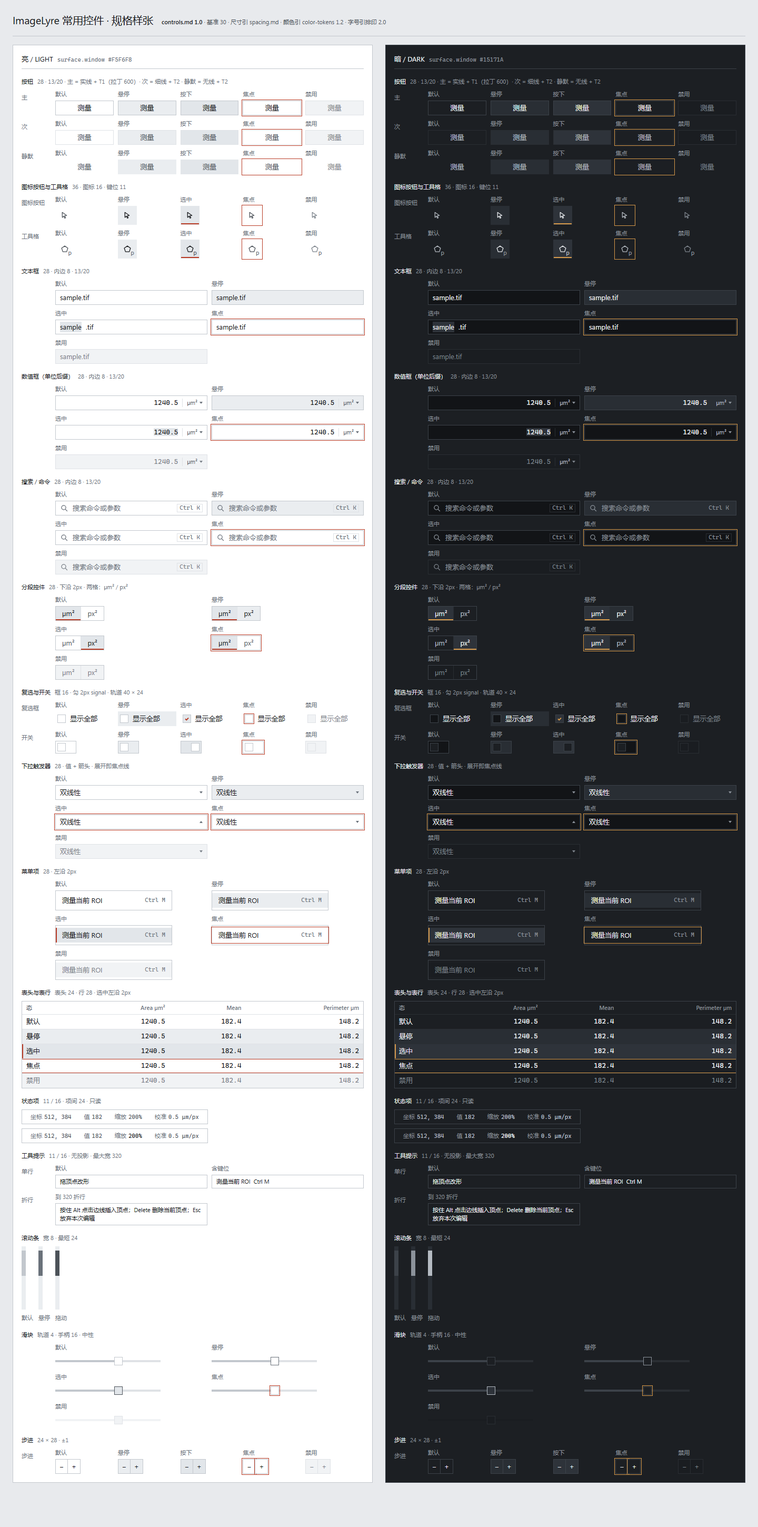
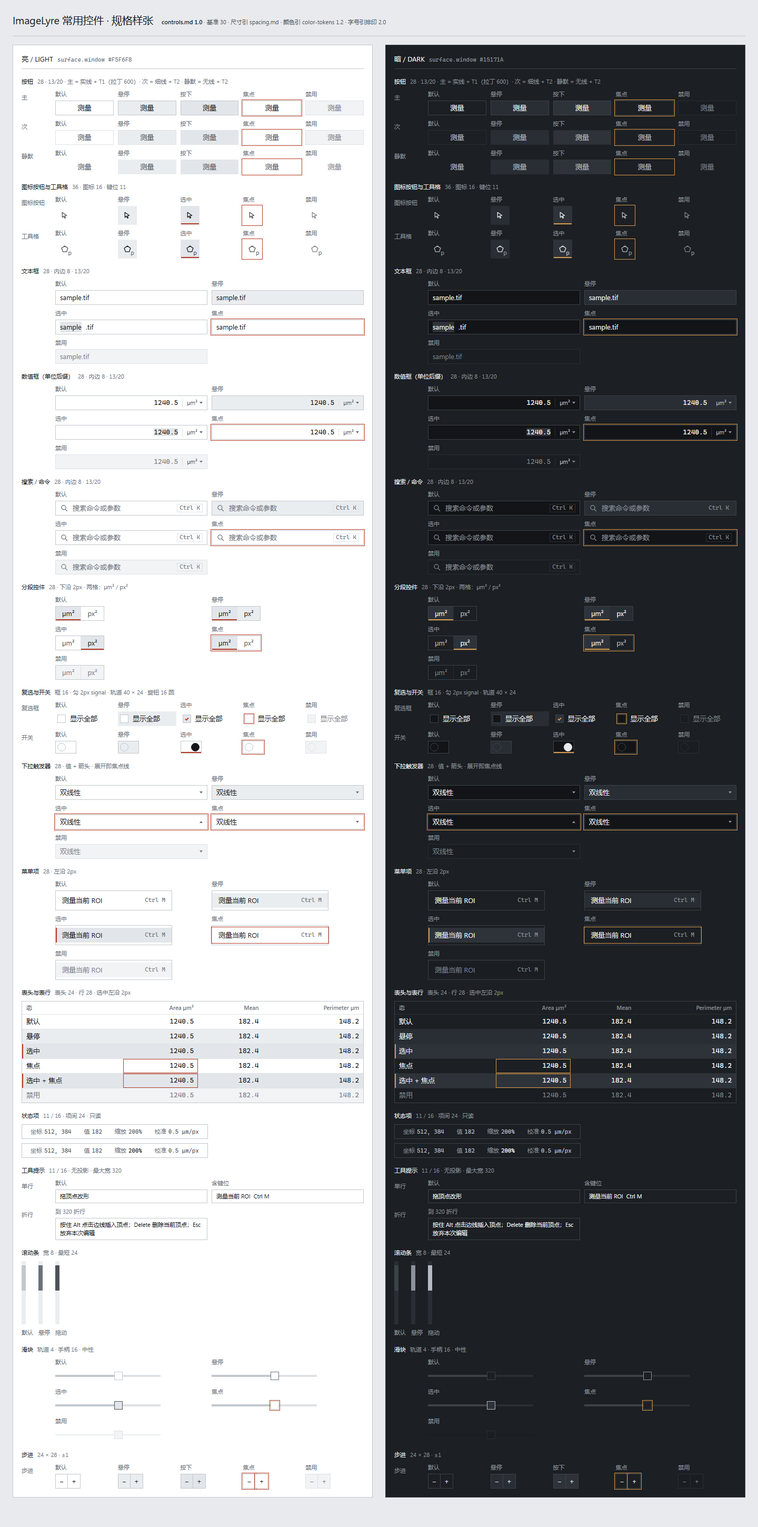
docs(design): 开关改圆钮，表格选中焦点收口

diff --git a/docs/design/lukan/bakeoff-2026-11-20/controls.html b/docs/design/lukan/bakeoff-2026-11-20/controls.html
@@ -100,13 +100,15 @@
   .chk.dis{color:var(--td)}
   .chk.dis .box{border-color:var(--div);background:var(--dis);color:var(--td)}
   .sw{position:relative;display:inline-block;width:40px;height:24px;background:var(--si);border:1px solid var(--bor)}
-  .sw .knob{position:absolute;top:3px;left:3px;width:16px;height:16px;background:var(--sp);border:1px solid var(--bor)}
-  .sw.sel{background:var(--sel)}
-  .sw.sel .knob{left:19px}
+  .sw .knob{position:absolute;top:3px;left:3px;width:16px;height:16px;border-radius:50%;background:transparent;border:1px solid var(--bor)}
+  .sw.sel .knob{left:19px;background:var(--t1);border-color:var(--t1)}
+  .sw.sel::after{content:"";position:absolute;left:0;right:0;bottom:0;height:2px;background:var(--sig)}
+  
   .sw.hov{background:var(--sh)}
   .sw.focus{outline:1px solid var(--foc);outline-offset:1px}
   .sw.dis{background:var(--dis);border-color:var(--div)}
-  .sw.dis .knob{border-color:var(--div);background:var(--dis)}
+  .sw.dis .knob{border-color:var(--div);background:transparent}
+  .sw.dis::after{display:none}
   .menu{border:1px solid var(--bor);background:var(--sp);padding:4px 0;width:max-content;min-width:220px}
   .mi{display:flex;align-items:center;gap:8px;height:28px;padding:0 12px;position:relative;
     background:transparent;font-size:13px;line-height:20px;color:var(--t1);min-width:220px}
@@ -128,7 +130,7 @@
   .tbl tr.hov td{background:var(--sh)}
   .tbl tr.sel td{background:var(--sel)}
   .tbl tr.sel td:first-child{box-shadow:inset 2px 0 0 var(--sig)}
-  .tbl tr.foc td{box-shadow:inset 0 1px 0 var(--foc),inset 0 -1px 0 var(--foc)}
+  .tbl td.fc{box-shadow:inset 0 0 0 1px var(--foc)}
   .tbl tr.dis td{background:var(--dis);color:var(--td)}
   .statuswrap{display:flex;flex-direction:column;gap:8px}
   .status{display:flex;align-items:center;gap:24px;height:28px;padding:0 16px;background:var(--sp);border:1px solid var(--bor);width:max-content}
@@ -175,14 +177,15 @@
   <div class="cols">
     <section class="col light">
       <div class="colhead"><b>亮 / LIGHT</b><span>surface.window #F5F6F8</span></div>
-      <section class="grp"><h2 class="gh">按钮<span>28 · 13/20 · 主 = 实线 + T1（拉丁 600）· 次 = 细线 + T2 · 静默 = 无线 + T2</span></h2><div class="grid g5"><div class="rl">主</div><div class="cell"><span class="cap">默认</span><button class="btn primary">测量</button></div><div class="cell"><span class="cap">悬停</span><button class="btn primary hov">测量</button></div><div class="cell"><span class="cap">按下</span><button class="btn primary press">测量</button></div><div class="cell"><span class="cap">焦点</span><button class="btn primary focus">测量</button></div><div class="cell"><span class="cap">禁用</span><button class="btn primary dis">测量</button></div><div class="rl">次</div><div class="cell"><span class="cap">默认</span><button class="btn secondary">测量</button></div><div class="cell"><span class="cap">悬停</span><button class="btn secondary hov">测量</button></div><div class="cell"><span class="cap">按下</span><button class="btn secondary press">测量</button></div><div class="cell"><span class="cap">焦点</span><button class="btn secondary focus">测量</button></div><div class="cell"><span class="cap">禁用</span><button class="btn secondary dis">测量</button></div><div class="rl">静默</div><div class="cell"><span class="cap">默认</span><button class="btn quiet">测量</button></div><div class="cell"><span class="cap">悬停</span><button class="btn quiet hov">测量</button></div><div class="cell"><span class="cap">按下</span><button class="btn quiet press">测量</button></div><div class="cell"><span class="cap">焦点</span><button class="btn quiet focus">测量</button></div><div class="cell"><span class="cap">禁用</span><button class="btn quiet dis">测量</button></div></div></section><section class="grp"><h2 class="gh">图标按钮与工具格<span>36 · 图标 16 · 键位 11</span></h2><div class="grid g5"><div class="rl">图标按钮</div><div class="cell"><span class="cap">默认</span><button class="ico"><svg viewBox="0 0 16 16" fill="none" stroke="currentColor" stroke-width="1.3" stroke-linejoin="round"><path d="M3.2 2.3l8.5 5.9-3.8.6 1.7 3.9-1.6.7-1.7-3.9-2.9 2.4z"/></svg></button></div><div class="cell"><span class="cap">悬停</span><button class="ico hov"><svg viewBox="0 0 16 16" fill="none" stroke="currentColor" stroke-width="1.3" stroke-linejoin="round"><path d="M3.2 2.3l8.5 5.9-3.8.6 1.7 3.9-1.6.7-1.7-3.9-2.9 2.4z"/></svg></button></div><div class="cell"><span class="cap">选中</span><button class="ico sel"><svg viewBox="0 0 16 16" fill="none" stroke="currentColor" stroke-width="1.3" stroke-linejoin="round"><path d="M3.2 2.3l8.5 5.9-3.8.6 1.7 3.9-1.6.7-1.7-3.9-2.9 2.4z"/></svg></button></div><div class="cell"><span class="cap">焦点</span><button class="ico focus"><svg viewBox="0 0 16 16" fill="none" stroke="currentColor" stroke-width="1.3" stroke-linejoin="round"><path d="M3.2 2.3l8.5 5.9-3.8.6 1.7 3.9-1.6.7-1.7-3.9-2.9 2.4z"/></svg></button></div><div class="cell"><span class="cap">禁用</span><button class="ico dis"><svg viewBox="0 0 16 16" fill="none" stroke="currentColor" stroke-width="1.3" stroke-linejoin="round"><path d="M3.2 2.3l8.5 5.9-3.8.6 1.7 3.9-1.6.7-1.7-3.9-2.9 2.4z"/></svg></button></div><div class="rl">工具格</div><div class="cell"><span class="cap">默认</span><button class="ico tool"><svg viewBox="0 0 16 16" fill="none" stroke="currentColor" stroke-width="1.3" stroke-linejoin="round"><path d="M8 2.1l5.9 4.1-2.3 6.9H4.4L2.1 6.2z"/></svg><span class="key">P</span></button></div><div class="cell"><span class="cap">悬停</span><button class="ico tool hov"><svg viewBox="0 0 16 16" fill="none" stroke="currentColor" stroke-width="1.3" stroke-linejoin="round"><path d="M8 2.1l5.9 4.1-2.3 6.9H4.4L2.1 6.2z"/></svg><span class="key">P</span></button></div><div class="cell"><span class="cap">选中</span><button class="ico tool sel"><svg viewBox="0 0 16 16" fill="none" stroke="currentColor" stroke-width="1.3" stroke-linejoin="round"><path d="M8 2.1l5.9 4.1-2.3 6.9H4.4L2.1 6.2z"/></svg><span class="key">P</span></button></div><div class="cell"><span class="cap">焦点</span><button class="ico tool focus"><svg viewBox="0 0 16 16" fill="none" stroke="currentColor" stroke-width="1.3" stroke-linejoin="round"><path d="M8 2.1l5.9 4.1-2.3 6.9H4.4L2.1 6.2z"/></svg><span class="key">P</span></button></div><div class="cell"><span class="cap">禁用</span><button class="ico tool dis"><svg viewBox="0 0 16 16" fill="none" stroke="currentColor" stroke-width="1.3" stroke-linejoin="round"><path d="M8 2.1l5.9 4.1-2.3 6.9H4.4L2.1 6.2z"/></svg><span class="key">P</span></button></div></div></section><section class="grp"><h2 class="gh">文本框<span>28 · 内边 8 · 13/20</span></h2><div class="grid g2"><div class="rl"></div><div class="cell"><span class="cap">默认</span><div class="field">sample.tif</div></div><div class="cell"><span class="cap">悬停</span><div class="field hov">sample.tif</div></div><div class="rl"></div><div class="cell"><span class="cap">选中</span><div class="field sel"><span class="seltext">sample</span>.tif</div></div><div class="cell"><span class="cap">焦点</span><div class="field focus">sample.tif</div></div><div class="rl"></div><div class="cell"><span class="cap">禁用</span><div class="field dis">sample.tif</div></div></div></section><section class="grp"><h2 class="gh">数值框（单位后缀）<span>28 · 内边 8 · 13/20</span></h2><div class="grid g2"><div class="rl"></div><div class="cell"><span class="cap">默认</span><div class="field"><span class="num">1240.5</span><span class="unit">µm²<i class="car"></i></span></div></div><div class="cell"><span class="cap">悬停</span><div class="field hov"><span class="num">1240.5</span><span class="unit">µm²<i class="car"></i></span></div></div><div class="rl"></div><div class="cell"><span class="cap">选中</span><div class="field sel"><span class="num"><span class="seltext">1240.5</span></span><span class="unit">µm²<i class="car"></i></span></div></div><div class="cell"><span class="cap">焦点</span><div class="field focus"><span class="num">1240.5</span><span class="unit">µm²<i class="car"></i></span></div></div><div class="rl"></div><div class="cell"><span class="cap">禁用</span><div class="field dis"><span class="num">1240.5</span><span class="unit">µm²<i class="car"></i></span></div></div></div></section><section class="grp"><h2 class="gh">搜索 / 命令<span>28 · 内边 8 · 13/20</span></h2><div class="grid g2"><div class="rl"></div><div class="cell"><span class="cap">默认</span><div class="field"><svg class="ic" viewBox="0 0 16 16" fill="none" stroke="currentColor" stroke-width="1.3" stroke-linecap="round"><circle cx="7" cy="7" r="4.1"/><path d="M10.1 10.1l3.4 3.4"/></svg><span class="ph">搜索命令或参数</span><kbd>Ctrl K</kbd></div></div><div class="cell"><span class="cap">悬停</span><div class="field hov"><svg class="ic" viewBox="0 0 16 16" fill="none" stroke="currentColor" stroke-width="1.3" stroke-linecap="round"><circle cx="7" cy="7" r="4.1"/><path d="M10.1 10.1l3.4 3.4"/></svg><span class="ph">搜索命令或参数</span><kbd>Ctrl K</kbd></div></div><div class="rl"></div><div class="cell"><span class="cap">选中</span><div class="field sel"><svg class="ic" viewBox="0 0 16 16" fill="none" stroke="currentColor" stroke-width="1.3" stroke-linecap="round"><circle cx="7" cy="7" r="4.1"/><path d="M10.1 10.1l3.4 3.4"/></svg><span class="ph">搜索命令或参数</span><kbd>Ctrl K</kbd></div></div><div class="cell"><span class="cap">焦点</span><div class="field focus"><svg class="ic" viewBox="0 0 16 16" fill="none" stroke="currentColor" stroke-width="1.3" stroke-linecap="round"><circle cx="7" cy="7" r="4.1"/><path d="M10.1 10.1l3.4 3.4"/></svg><span class="ph">搜索命令或参数</span><kbd>Ctrl K</kbd></div></div><div class="rl"></div><div class="cell"><span class="cap">禁用</span><div class="field dis"><svg class="ic" viewBox="0 0 16 16" fill="none" stroke="currentColor" stroke-width="1.3" stroke-linecap="round"><circle cx="7" cy="7" r="4.1"/><path d="M10.1 10.1l3.4 3.4"/></svg><span class="ph">搜索命令或参数</span><kbd>Ctrl K</kbd></div></div></div></section><section class="grp"><h2 class="gh">分段控件<span>28 · 下沿 2px · 两格：µm² / px²</span></h2><div class="grid g2"><div class="rl"></div><div class="cell"><span class="cap">默认</span><div class="seg"><span class="on">µm²</span><span>px²</span></div></div><div class="cell"><span class="cap">悬停</span><div class="seg"><span class="on">µm²</span><span class="hovitem">px²</span></div></div><div class="rl"></div><div class="cell"><span class="cap">选中</span><div class="seg"><span>µm²</span><span class="on">px²</span></div></div><div class="cell"><span class="cap">焦点</span><div class="seg focus"><span class="on">µm²</span><span>px²</span></div></div><div class="rl"></div><div class="cell"><span class="cap">禁用</span><div class="seg dis"><span>µm²</span><span class="on">px²</span></div></div></div></section><section class="grp"><h2 class="gh">复选与开关<span>框 16 · 勾 2px signal · 轨道 40 × 24</span></h2><div class="grid g5"><div class="rl">复选框</div><div class="cell"><span class="cap">默认</span><div class="chk"><span class="box"></span>显示全部</div></div><div class="cell"><span class="cap">悬停</span><div class="chk hov"><span class="box"></span>显示全部</div></div><div class="cell"><span class="cap">选中</span><div class="chk sel"><span class="box"><svg viewBox="0 0 10 10" fill="none" stroke="currentColor" stroke-width="2"><path d="M2 5.2l2.3 2.2L8 3.4"/></svg></span>显示全部</div></div><div class="cell"><span class="cap">焦点</span><div class="chk focus"><span class="box"></span>显示全部</div></div><div class="cell"><span class="cap">禁用</span><div class="chk dis"><span class="box"></span>显示全部</div></div><div class="rl">开关</div><div class="cell"><span class="cap">默认</span><div class="sw"><span class="knob"></span></div></div><div class="cell"><span class="cap">悬停</span><div class="sw hov"><span class="knob"></span></div></div><div class="cell"><span class="cap">选中</span><div class="sw sel"><span class="knob"></span></div></div><div class="cell"><span class="cap">焦点</span><div class="sw focus"><span class="knob"></span></div></div><div class="cell"><span class="cap">禁用</span><div class="sw dis"><span class="knob"></span></div></div></div></section><section class="grp"><h2 class="gh">下拉触发器<span>28 · 值 + 箭头 · 展开即焦点线</span></h2><div class="grid g2"><div class="rl"></div><div class="cell"><span class="cap">默认</span><div class="field select"><span>双线性</span><i class="car"></i></div></div><div class="cell"><span class="cap">悬停</span><div class="field select hov"><span>双线性</span><i class="car"></i></div></div><div class="rl"></div><div class="cell"><span class="cap">选中</span><div class="field select sel"><span>双线性</span><i class="car"></i></div></div><div class="cell"><span class="cap">焦点</span><div class="field select focus"><span>双线性</span><i class="car"></i></div></div><div class="rl"></div><div class="cell"><span class="cap">禁用</span><div class="field select dis"><span>双线性</span><i class="car"></i></div></div></div></section><section class="grp"><h2 class="gh">菜单项<span>28 · 左沿 2px</span></h2><div class="grid g2"><div class="rl"></div><div class="cell"><span class="cap">默认</span><div class="menu"><div class="mi"><span>测量当前 ROI</span><kbd>Ctrl M</kbd></div></div></div><div class="cell"><span class="cap">悬停</span><div class="menu"><div class="mi hov"><span>测量当前 ROI</span><kbd>Ctrl M</kbd></div></div></div><div class="rl"></div><div class="cell"><span class="cap">选中</span><div class="menu"><div class="mi sel"><span>测量当前 ROI</span><kbd>Ctrl M</kbd></div></div></div><div class="cell"><span class="cap">焦点</span><div class="menu"><div class="mi focus"><span>测量当前 ROI</span><kbd>Ctrl M</kbd></div></div></div><div class="rl"></div><div class="cell"><span class="cap">禁用</span><div class="menu"><div class="mi dis"><span>测量当前 ROI</span><kbd>Ctrl M</kbd></div></div></div></div></section><section class="grp"><h2 class="gh">表头与表行<span>表头 24 · 行 28 · 选中左沿 2px</span></h2><div class="tblwrap">
+      <section class="grp"><h2 class="gh">按钮<span>28 · 13/20 · 主 = 实线 + T1（拉丁 600）· 次 = 细线 + T2 · 静默 = 无线 + T2</span></h2><div class="grid g5"><div class="rl">主</div><div class="cell"><span class="cap">默认</span><button class="btn primary">测量</button></div><div class="cell"><span class="cap">悬停</span><button class="btn primary hov">测量</button></div><div class="cell"><span class="cap">按下</span><button class="btn primary press">测量</button></div><div class="cell"><span class="cap">焦点</span><button class="btn primary focus">测量</button></div><div class="cell"><span class="cap">禁用</span><button class="btn primary dis">测量</button></div><div class="rl">次</div><div class="cell"><span class="cap">默认</span><button class="btn secondary">测量</button></div><div class="cell"><span class="cap">悬停</span><button class="btn secondary hov">测量</button></div><div class="cell"><span class="cap">按下</span><button class="btn secondary press">测量</button></div><div class="cell"><span class="cap">焦点</span><button class="btn secondary focus">测量</button></div><div class="cell"><span class="cap">禁用</span><button class="btn secondary dis">测量</button></div><div class="rl">静默</div><div class="cell"><span class="cap">默认</span><button class="btn quiet">测量</button></div><div class="cell"><span class="cap">悬停</span><button class="btn quiet hov">测量</button></div><div class="cell"><span class="cap">按下</span><button class="btn quiet press">测量</button></div><div class="cell"><span class="cap">焦点</span><button class="btn quiet focus">测量</button></div><div class="cell"><span class="cap">禁用</span><button class="btn quiet dis">测量</button></div></div></section><section class="grp"><h2 class="gh">图标按钮与工具格<span>36 · 图标 16 · 键位 11</span></h2><div class="grid g5"><div class="rl">图标按钮</div><div class="cell"><span class="cap">默认</span><button class="ico"><svg viewBox="0 0 16 16" fill="none" stroke="currentColor" stroke-width="1.3" stroke-linejoin="round"><path d="M3.2 2.3l8.5 5.9-3.8.6 1.7 3.9-1.6.7-1.7-3.9-2.9 2.4z"/></svg></button></div><div class="cell"><span class="cap">悬停</span><button class="ico hov"><svg viewBox="0 0 16 16" fill="none" stroke="currentColor" stroke-width="1.3" stroke-linejoin="round"><path d="M3.2 2.3l8.5 5.9-3.8.6 1.7 3.9-1.6.7-1.7-3.9-2.9 2.4z"/></svg></button></div><div class="cell"><span class="cap">选中</span><button class="ico sel"><svg viewBox="0 0 16 16" fill="none" stroke="currentColor" stroke-width="1.3" stroke-linejoin="round"><path d="M3.2 2.3l8.5 5.9-3.8.6 1.7 3.9-1.6.7-1.7-3.9-2.9 2.4z"/></svg></button></div><div class="cell"><span class="cap">焦点</span><button class="ico focus"><svg viewBox="0 0 16 16" fill="none" stroke="currentColor" stroke-width="1.3" stroke-linejoin="round"><path d="M3.2 2.3l8.5 5.9-3.8.6 1.7 3.9-1.6.7-1.7-3.9-2.9 2.4z"/></svg></button></div><div class="cell"><span class="cap">禁用</span><button class="ico dis"><svg viewBox="0 0 16 16" fill="none" stroke="currentColor" stroke-width="1.3" stroke-linejoin="round"><path d="M3.2 2.3l8.5 5.9-3.8.6 1.7 3.9-1.6.7-1.7-3.9-2.9 2.4z"/></svg></button></div><div class="rl">工具格</div><div class="cell"><span class="cap">默认</span><button class="ico tool"><svg viewBox="0 0 16 16" fill="none" stroke="currentColor" stroke-width="1.3" stroke-linejoin="round"><path d="M8 2.1l5.9 4.1-2.3 6.9H4.4L2.1 6.2z"/></svg><span class="key">P</span></button></div><div class="cell"><span class="cap">悬停</span><button class="ico tool hov"><svg viewBox="0 0 16 16" fill="none" stroke="currentColor" stroke-width="1.3" stroke-linejoin="round"><path d="M8 2.1l5.9 4.1-2.3 6.9H4.4L2.1 6.2z"/></svg><span class="key">P</span></button></div><div class="cell"><span class="cap">选中</span><button class="ico tool sel"><svg viewBox="0 0 16 16" fill="none" stroke="currentColor" stroke-width="1.3" stroke-linejoin="round"><path d="M8 2.1l5.9 4.1-2.3 6.9H4.4L2.1 6.2z"/></svg><span class="key">P</span></button></div><div class="cell"><span class="cap">焦点</span><button class="ico tool focus"><svg viewBox="0 0 16 16" fill="none" stroke="currentColor" stroke-width="1.3" stroke-linejoin="round"><path d="M8 2.1l5.9 4.1-2.3 6.9H4.4L2.1 6.2z"/></svg><span class="key">P</span></button></div><div class="cell"><span class="cap">禁用</span><button class="ico tool dis"><svg viewBox="0 0 16 16" fill="none" stroke="currentColor" stroke-width="1.3" stroke-linejoin="round"><path d="M8 2.1l5.9 4.1-2.3 6.9H4.4L2.1 6.2z"/></svg><span class="key">P</span></button></div></div></section><section class="grp"><h2 class="gh">文本框<span>28 · 内边 8 · 13/20</span></h2><div class="grid g2"><div class="rl"></div><div class="cell"><span class="cap">默认</span><div class="field">sample.tif</div></div><div class="cell"><span class="cap">悬停</span><div class="field hov">sample.tif</div></div><div class="rl"></div><div class="cell"><span class="cap">选中</span><div class="field sel"><span class="seltext">sample</span>.tif</div></div><div class="cell"><span class="cap">焦点</span><div class="field focus">sample.tif</div></div><div class="rl"></div><div class="cell"><span class="cap">禁用</span><div class="field dis">sample.tif</div></div></div></section><section class="grp"><h2 class="gh">数值框（单位后缀）<span>28 · 内边 8 · 13/20</span></h2><div class="grid g2"><div class="rl"></div><div class="cell"><span class="cap">默认</span><div class="field"><span class="num">1240.5</span><span class="unit">µm²<i class="car"></i></span></div></div><div class="cell"><span class="cap">悬停</span><div class="field hov"><span class="num">1240.5</span><span class="unit">µm²<i class="car"></i></span></div></div><div class="rl"></div><div class="cell"><span class="cap">选中</span><div class="field sel"><span class="num"><span class="seltext">1240.5</span></span><span class="unit">µm²<i class="car"></i></span></div></div><div class="cell"><span class="cap">焦点</span><div class="field focus"><span class="num">1240.5</span><span class="unit">µm²<i class="car"></i></span></div></div><div class="rl"></div><div class="cell"><span class="cap">禁用</span><div class="field dis"><span class="num">1240.5</span><span class="unit">µm²<i class="car"></i></span></div></div></div></section><section class="grp"><h2 class="gh">搜索 / 命令<span>28 · 内边 8 · 13/20</span></h2><div class="grid g2"><div class="rl"></div><div class="cell"><span class="cap">默认</span><div class="field"><svg class="ic" viewBox="0 0 16 16" fill="none" stroke="currentColor" stroke-width="1.3" stroke-linecap="round"><circle cx="7" cy="7" r="4.1"/><path d="M10.1 10.1l3.4 3.4"/></svg><span class="ph">搜索命令或参数</span><kbd>Ctrl K</kbd></div></div><div class="cell"><span class="cap">悬停</span><div class="field hov"><svg class="ic" viewBox="0 0 16 16" fill="none" stroke="currentColor" stroke-width="1.3" stroke-linecap="round"><circle cx="7" cy="7" r="4.1"/><path d="M10.1 10.1l3.4 3.4"/></svg><span class="ph">搜索命令或参数</span><kbd>Ctrl K</kbd></div></div><div class="rl"></div><div class="cell"><span class="cap">选中</span><div class="field sel"><svg class="ic" viewBox="0 0 16 16" fill="none" stroke="currentColor" stroke-width="1.3" stroke-linecap="round"><circle cx="7" cy="7" r="4.1"/><path d="M10.1 10.1l3.4 3.4"/></svg><span class="ph">搜索命令或参数</span><kbd>Ctrl K</kbd></div></div><div class="cell"><span class="cap">焦点</span><div class="field focus"><svg class="ic" viewBox="0 0 16 16" fill="none" stroke="currentColor" stroke-width="1.3" stroke-linecap="round"><circle cx="7" cy="7" r="4.1"/><path d="M10.1 10.1l3.4 3.4"/></svg><span class="ph">搜索命令或参数</span><kbd>Ctrl K</kbd></div></div><div class="rl"></div><div class="cell"><span class="cap">禁用</span><div class="field dis"><svg class="ic" viewBox="0 0 16 16" fill="none" stroke="currentColor" stroke-width="1.3" stroke-linecap="round"><circle cx="7" cy="7" r="4.1"/><path d="M10.1 10.1l3.4 3.4"/></svg><span class="ph">搜索命令或参数</span><kbd>Ctrl K</kbd></div></div></div></section><section class="grp"><h2 class="gh">分段控件<span>28 · 下沿 2px · 两格：µm² / px²</span></h2><div class="grid g2"><div class="rl"></div><div class="cell"><span class="cap">默认</span><div class="seg"><span class="on">µm²</span><span>px²</span></div></div><div class="cell"><span class="cap">悬停</span><div class="seg"><span class="on">µm²</span><span class="hovitem">px²</span></div></div><div class="rl"></div><div class="cell"><span class="cap">选中</span><div class="seg"><span>µm²</span><span class="on">px²</span></div></div><div class="cell"><span class="cap">焦点</span><div class="seg focus"><span class="on">µm²</span><span>px²</span></div></div><div class="rl"></div><div class="cell"><span class="cap">禁用</span><div class="seg dis"><span>µm²</span><span class="on">px²</span></div></div></div></section><section class="grp"><h2 class="gh">复选与开关<span>框 16 · 勾 2px signal · 轨道 40 × 24 · 旋钮 16 圆</span></h2><div class="grid g5"><div class="rl">复选框</div><div class="cell"><span class="cap">默认</span><div class="chk"><span class="box"></span>显示全部</div></div><div class="cell"><span class="cap">悬停</span><div class="chk hov"><span class="box"></span>显示全部</div></div><div class="cell"><span class="cap">选中</span><div class="chk sel"><span class="box"><svg viewBox="0 0 10 10" fill="none" stroke="currentColor" stroke-width="2"><path d="M2 5.2l2.3 2.2L8 3.4"/></svg></span>显示全部</div></div><div class="cell"><span class="cap">焦点</span><div class="chk focus"><span class="box"></span>显示全部</div></div><div class="cell"><span class="cap">禁用</span><div class="chk dis"><span class="box"></span>显示全部</div></div><div class="rl">开关</div><div class="cell"><span class="cap">默认</span><div class="sw"><span class="knob"></span></div></div><div class="cell"><span class="cap">悬停</span><div class="sw hov"><span class="knob"></span></div></div><div class="cell"><span class="cap">选中</span><div class="sw sel"><span class="knob"></span></div></div><div class="cell"><span class="cap">焦点</span><div class="sw focus"><span class="knob"></span></div></div><div class="cell"><span class="cap">禁用</span><div class="sw dis"><span class="knob"></span></div></div></div></section><section class="grp"><h2 class="gh">下拉触发器<span>28 · 值 + 箭头 · 展开即焦点线</span></h2><div class="grid g2"><div class="rl"></div><div class="cell"><span class="cap">默认</span><div class="field select"><span>双线性</span><i class="car"></i></div></div><div class="cell"><span class="cap">悬停</span><div class="field select hov"><span>双线性</span><i class="car"></i></div></div><div class="rl"></div><div class="cell"><span class="cap">选中</span><div class="field select sel"><span>双线性</span><i class="car"></i></div></div><div class="cell"><span class="cap">焦点</span><div class="field select focus"><span>双线性</span><i class="car"></i></div></div><div class="rl"></div><div class="cell"><span class="cap">禁用</span><div class="field select dis"><span>双线性</span><i class="car"></i></div></div></div></section><section class="grp"><h2 class="gh">菜单项<span>28 · 左沿 2px</span></h2><div class="grid g2"><div class="rl"></div><div class="cell"><span class="cap">默认</span><div class="menu"><div class="mi"><span>测量当前 ROI</span><kbd>Ctrl M</kbd></div></div></div><div class="cell"><span class="cap">悬停</span><div class="menu"><div class="mi hov"><span>测量当前 ROI</span><kbd>Ctrl M</kbd></div></div></div><div class="rl"></div><div class="cell"><span class="cap">选中</span><div class="menu"><div class="mi sel"><span>测量当前 ROI</span><kbd>Ctrl M</kbd></div></div></div><div class="cell"><span class="cap">焦点</span><div class="menu"><div class="mi focus"><span>测量当前 ROI</span><kbd>Ctrl M</kbd></div></div></div><div class="rl"></div><div class="cell"><span class="cap">禁用</span><div class="menu"><div class="mi dis"><span>测量当前 ROI</span><kbd>Ctrl M</kbd></div></div></div></div></section><section class="grp"><h2 class="gh">表头与表行<span>表头 24 · 行 28 · 选中左沿 2px</span></h2><div class="tblwrap">
 <table class="tbl">
   <thead><tr><th class="l">态</th><th class="r">Area µm²</th><th class="r">Mean</th><th class="r">Perimeter µm</th></tr></thead>
   <tbody>
     <tr class="tr"><td class="l">默认</td><td class="r num">1240.5</td><td class="r num">182.4</td><td class="r num">148.2</td></tr>
     <tr class="tr hov"><td class="l">悬停</td><td class="r num">1240.5</td><td class="r num">182.4</td><td class="r num">148.2</td></tr>
     <tr class="tr sel"><td class="l">选中</td><td class="r num">1240.5</td><td class="r num">182.4</td><td class="r num">148.2</td></tr>
-    <tr class="tr foc"><td class="l">焦点</td><td class="r num">1240.5</td><td class="r num">182.4</td><td class="r num">148.2</td></tr>
+    <tr class="tr"><td class="l">焦点</td><td class="r num fc">1240.5</td><td class="r num">182.4</td><td class="r num">148.2</td></tr>
+    <tr class="tr sel"><td class="l">选中 + 焦点</td><td class="r num fc">1240.5</td><td class="r num">182.4</td><td class="r num">148.2</td></tr>
     <tr class="tr dis"><td class="l">禁用</td><td class="r num">1240.5</td><td class="r num">182.4</td><td class="r num">148.2</td></tr>
   </tbody>
 </table></div></section><section class="grp"><h2 class="gh">状态项<span>11 / 16 · 项间 24 · 只读</span></h2><div class="statuswrap"><div class="status"><span class="si"><em>坐标</em><b>512, 384</b></span><span class="si"><em>值</em><b>182</b></span><span class="si"><em>缩放</em><b>200%</b></span><span class="si"><em>校准</em><b>0.5 µm/px</b></span></div><div class="status"><span class="si"><em>坐标</em><b>512, 384</b></span><span class="si"><em>值</em><b>182</b></span><span class="si"><em>缩放</em><b class="cur">200%</b></span><span class="si"><em>校准</em><b>0.5 µm/px</b></span></div></div></section><section class="grp"><h2 class="gh">工具提示<span>11 / 16 · 无投影 · 最大宽 320</span></h2><div class="grid g2"><div class="rl">单行</div><div class="cell"><span class="cap">默认</span><div class="tip">拖顶点改形</div></div><div class="cell"><span class="cap">含键位</span><div class="tip">测量当前 ROI&nbsp;&nbsp;Ctrl M</div></div><div class="rl">折行</div><div class="cell"><span class="cap">到 320 折行</span><div class="tip wrap">按住 Alt 点击边线插入顶点；Delete 删除当前顶点；Esc 放弃本次编辑</div></div></div></section><section class="grp"><h2 class="gh">滚动条<span>宽 8 · 最短 24</span></h2><div class="sbwrap"><div class="sbrow"><div class="sb"><span class="thumb"></span></div><div class="sb"><span class="thumb hov"></span></div><div class="sb"><span class="thumb act"></span></div></div><div class="sblabels"><span>默认</span><span>悬停</span><span>拖动</span></div></div></section><section class="grp"><h2 class="gh">滑块<span>轨道 4 · 手柄 16 · 中性</span></h2><div class="grid g2"><div class="rl"></div><div class="cell"><span class="cap">默认</span><div class="slider"><div class="track"><div class="fill"></div></div><div class="handle"></div></div></div><div class="cell"><span class="cap">悬停</span><div class="slider hov"><div class="track"><div class="fill"></div></div><div class="handle"></div></div></div><div class="rl"></div><div class="cell"><span class="cap">选中</span><div class="slider sel"><div class="track"><div class="fill"></div></div><div class="handle"></div></div></div><div class="cell"><span class="cap">焦点</span><div class="slider focus"><div class="track"><div class="fill"></div></div><div class="handle"></div></div></div><div class="rl"></div><div class="cell"><span class="cap">禁用</span><div class="slider dis"><div class="track"><div class="fill"></div></div><div class="handle"></div></div></div></div></section><section class="grp"><h2 class="gh">步进<span>24 × 28 · ±1</span></h2><div class="grid g5"><div class="rl">步进</div><div class="cell"><span class="cap">默认</span><div class="step"><span class="st">−</span><span class="st">+</span></div></div><div class="cell"><span class="cap">悬停</span><div class="step hov"><span class="st">−</span><span class="st">+</span></div></div><div class="cell"><span class="cap">按下</span><div class="step press"><span class="st">−</span><span class="st">+</span></div></div><div class="cell"><span class="cap">焦点</span><div class="step focus"><span class="st">−</span><span class="st">+</span></div></div><div class="cell"><span class="cap">禁用</span><div class="step dis"><span class="st">−</span><span class="st">+</span></div></div></div></section>
@@ -196,7 +199,8 @@
     <tr class="tr"><td class="l">默认</td><td class="r num">1240.5</td><td class="r num">182.4</td><td class="r num">148.2</td></tr>
     <tr class="tr hov"><td class="l">悬停</td><td class="r num">1240.5</td><td class="r num">182.4</td><td class="r num">148.2</td></tr>
     <tr class="tr sel"><td class="l">选中</td><td class="r num">1240.5</td><td class="r num">182.4</td><td class="r num">148.2</td></tr>
-    <tr class="tr foc"><td class="l">焦点</td><td class="r num">1240.5</td><td class="r num">182.4</td><td class="r num">148.2</td></tr>
+    <tr class="tr"><td class="l">焦点</td><td class="r num fc">1240.5</td><td class="r num">182.4</td><td class="r num">148.2</td></tr>
+    <tr class="tr sel"><td class="l">选中 + 焦点</td><td class="r num fc">1240.5</td><td class="r num">182.4</td><td class="r num">148.2</td></tr>
     <tr class="tr dis"><td class="l">禁用</td><td class="r num">1240.5</td><td class="r num">182.4</td><td class="r num">148.2</td></tr>
   </tbody>
 </table></div></section><section class="grp"><h2 class="gh">状态项<span>11 / 16 · 项间 24 · 只读</span></h2><div class="statuswrap"><div class="status"><span class="si"><em>坐标</em><b>512, 384</b></span><span class="si"><em>值</em><b>182</b></span><span class="si"><em>缩放</em><b>200%</b></span><span class="si"><em>校准</em><b>0.5 µm/px</b></span></div><div class="status"><span class="si"><em>坐标</em><b>512, 384</b></span><span class="si"><em>值</em><b>182</b></span><span class="si"><em>缩放</em><b class="cur">200%</b></span><span class="si"><em>校准</em><b>0.5 µm/px</b></span></div></div></section><section class="grp"><h2 class="gh">工具提示<span>11 / 16 · 无投影 · 最大宽 320</span></h2><div class="grid g2"><div class="rl">单行</div><div class="cell"><span class="cap">默认</span><div class="tip">拖顶点改形</div></div><div class="cell"><span class="cap">含键位</span><div class="tip">测量当前 ROI&nbsp;&nbsp;Ctrl M</div></div><div class="rl">折行</div><div class="cell"><span class="cap">到 320 折行</span><div class="tip wrap">按住 Alt 点击边线插入顶点；Delete 删除当前顶点；Esc 放弃本次编辑</div></div></div></section><section class="grp"><h2 class="gh">滚动条<span>宽 8 · 最短 24</span></h2><div class="sbwrap"><div class="sbrow"><div class="sb"><span class="thumb"></span></div><div class="sb"><span class="thumb hov"></span></div><div class="sb"><span class="thumb act"></span></div></div><div class="sblabels"><span>默认</span><span>悬停</span><span>拖动</span></div></div></section><section class="grp"><h2 class="gh">滑块<span>轨道 4 · 手柄 16 · 中性</span></h2><div class="grid g2"><div class="rl"></div><div class="cell"><span class="cap">默认</span><div class="slider"><div class="track"><div class="fill"></div></div><div class="handle"></div></div></div><div class="cell"><span class="cap">悬停</span><div class="slider hov"><div class="track"><div class="fill"></div></div><div class="handle"></div></div></div><div class="rl"></div><div class="cell"><span class="cap">选中</span><div class="slider sel"><div class="track"><div class="fill"></div></div><div class="handle"></div></div></div><div class="cell"><span class="cap">焦点</span><div class="slider focus"><div class="track"><div class="fill"></div></div><div class="handle"></div></div></div><div class="rl"></div><div class="cell"><span class="cap">禁用</span><div class="slider dis"><div class="track"><div class="fill"></div></div><div class="handle"></div></div></div></div></section><section class="grp"><h2 class="gh">步进<span>24 × 28 · ±1</span></h2><div class="grid g5"><div class="rl">步进</div><div class="cell"><span class="cap">默认</span><div class="step"><span class="st">−</span><span class="st">+</span></div></div><div class="cell"><span class="cap">悬停</span><div class="step hov"><span class="st">−</span><span class="st">+</span></div></div><div class="cell"><span class="cap">按下</span><div class="step press"><span class="st">−</span><span class="st">+</span></div></div><div class="cell"><span class="cap">焦点</span><div class="step focus"><span class="st">−</span><span class="st">+</span></div></div><div class="cell"><span class="cap">禁用</span><div class="step dis"><span class="st">−</span><span class="st">+</span></div></div></div></section>

diff --git a/docs/design/lukan/bakeoff-2026-11-20/controls.md b/docs/design/lukan/bakeoff-2026-11-20/controls.md
@@ -58,6 +58,8 @@
 - 悬停只换底，不换线、不换字重；禁用项没有悬停。
 - 选中与按下共用同一个底，区别只在有没有 2px 标；一个控件不能既放下沿又放左沿。
 - 复选框是唯一例外：它的「选中」用 2px `signal` 勾画在 16px 方框里，不放下沿（见 §7）；这是勾，不是第二条线。
+- `signal` 只做 2px 的线与勾：**不做文字色、不做填充、不做整块底**；选中行的字仍是 T1，数字不会变红。
+- 焦点只画在控件本身：表格画在当前单元格**内侧** 1px，不给整行、整块或整张表套外框。
 - 禁用时一定要把信号标去掉——禁用控件里没有「当前」。
 - 五态都不出现深色实底反白；暗色下选中底比面板亮一档。
 
@@ -201,7 +203,7 @@
 | 控件 | 尺寸 | 内边 / 间距 | 字档 |
 | :--- | :--- | :--- | :--- |
 | 复选框 | 方框 16 × 16，行高 28 | 框与标签 8；行左右 4（只为悬停底留边） | 13 |
-| 开关 | 轨道 40 × 24，手柄 16 | 手柄内缩 4；标签与轨道 8 | 13 |
+| 开关 | 轨道 40 × 24，**旋钮 16 圆形**（全库唯一允许圆角处） | 旋钮内缩 4；标签与轨道 8 | 13 |
 | 下拉触发器 | 高 28 | 左右 8；值 + 8 + 箭头 8 | 13 |
 | 下拉菜单 | 项高 28，菜单最小宽 = 触发器宽 | 项左右 12；上下 4；容器 1px 边 | 13；快捷键 11 mono |
 | 菜单项 | 高 28 | 左右 12；标签与快捷键 8 | 13；快捷键 11 `text.t3` |
@@ -211,7 +213,7 @@
 | 控件 | 默认 | 悬停 | 选中 / 开 | 焦点 | 禁用 |
 | :--- | :--- | :--- | :--- | :--- | :--- |
 | 复选框 | 框 `surface.input` + `line.border`，空框 | 行底 `surface.hover` | 框 16 底 `state.selected.bg`，勾 2px `signal.active` | 框外 `line.focus` 1px | 框 `line.divider` + 字 `text.disabled`，无勾 |
-| 开关 | 轨道 `surface.input` + `line.border`，柄左 | 轨道 `surface.hover` | 轨道 `state.selected.bg`，柄右，柄 `surface.panel` | 外框 `line.focus` | 轨道 `state.disabled.bg`，柄 `line.divider` |
+| 开关 | 轨道 `surface.input` + `line.border`；旋钮空芯圆（透明底 + 1px `line.border`）在左 | 轨道底 `surface.hover` | 旋钮 **实心 `text.t1` 圆**移到右端；轨道下沿 2px `signal.active`（signal 只做线，不铺底） | 外框 `line.focus` | 轨道 `state.disabled.bg`、旋钮 `line.divider`，无 signal |
 | 下拉 | `surface.input` + `line.border` | `surface.hover` | 展开中：外框 `line.focus`，箭头翻转 | `line.focus` | `state.disabled.bg` + `text.disabled` |
 | 菜单项 | `surface.panel` | `surface.hover` | 当前项：`state.selected.bg` + 左沿 2px `signal.active` | 焦点在菜单容器上，当前项靠 2px 标 | `text.disabled`，无悬停 |
 
@@ -222,7 +224,8 @@
 - do：复选选中的三件套是固定的：16px 方框、框底 `state.selected.bg`、2px `signal.active` 的勾；三者同时出现，缺一不算选中。
 - do：禁用时不画勾，框线换 `line.divider`、字换 `text.disabled`，仍能读出标签。
 - do：`signal` 在复选框里只用于那一道 2px 勾，不扩散到标签、行底或焦点环。
-- do：开关的开态靠手柄位置 + 一档底，不靠颜色。
+- do：开关用「圆」讲物理动作：关 = 空芯圆在左，开 = 实心 T1 圆在右 + 下沿 2px signal；开态不铺信号底、不染字。
+- do：圆只给开关旋钮；复选框是方框，两者不能长得像。
 - don't：不用 1px 勾、不用 `text.t1` 勾、不用对勾字符（✓）——勾永远是 2px 线，随缩放不变粗。
 - don't：不用开关表示立即生效的危险动作；那用按钮。
 - don't：下拉菜单不加投影；用 1px 边与底分层。
@@ -237,16 +240,24 @@
 | :--- | :--- | :--- | :--- | :--- |
 | 默认行 | `surface.panel` | 下 1px `line.divider` | `text.t1` | 无 |
 | 悬停行 | `surface.hover` | 不变 | `text.t1` | 无 |
-| 选中行 | `state.selected.bg` | 不变 | `text.t1` | 左沿 2px `signal.active` |
-| 焦点行 | 不变 | 行外 1px `line.focus` | 不变 | 保留选中标 |
+| 选中行 | `state.selected.bg` | 不变 | `text.t1`（不升、不染） | 左沿 2px `signal.active` |
+| 焦点单元格 | 不变 | 单元格内 1px `line.focus`（内偏 1px） | 不变 | 保留所在行已有的左沿标 |
+| 选中 + 焦点 | `state.selected.bg` | 左沿 2px + 当前格内 1px `line.focus` | `text.t1` | 两种标同时存在，互不覆盖 |
 | 禁用行 | `state.disabled.bg` | `line.divider` | `text.disabled` | 去掉标 |
+
+- 选中只做两件事：一档中性底 + 左沿 2px；**不改字色、不加整行边框、不加粗**。
+- 焦点只落在**当前单元格**：1px `line.focus`，内偏 1px；**不给整行套框**，也不把焦点画到表头或表体外面。
+- 选中与焦点同时存在时，左沿贴行首、细框贴当前格，两者间距至少 8，不叠在同一条边上。
 
 **键盘**：↑/↓ 移动当前行；Home/End 到首尾；Space 选中/取消；Shift+↑/↓ 扩选；Enter 打开；PageUp/PageDown 翻页；表头获得焦点时 Enter 排序。
 
 **do / don't**
 
 - do：数值列右对齐、等宽、固定小数位；单位放表头，不进单元格。
-- do：选中行只加左沿 2px，不整行反白、不加粗。
+- do：选中行只加左沿 2px，不整行反白、不加粗、不改字色。
+- do：焦点画在当前格内侧 1px，选中画在行首左沿；两者不同边，可同时出现。
+- don't：不把选中行的文字染成信号色——`signal` 不做文字色，数字永远是 T1。
+- don't：不给整行套焦点外框；焦点只落在当前单元格。
 - don't：不用斑马纹；行与行靠 1px 线。
 - don't：不在行里放两个可点区域；行的点击目标是一整行。
 
@@ -301,9 +312,10 @@
 2. **颜色**：所有底、线、字、标都能在 `color-tokens.md` 1.2 找到语义名；没有第二强调色。
 3. **五态**：§3–§10 每张表的五态在样张里都能找到；禁用项去掉了信号标。
 4. **不反白**：任何控件的任何态都没有深色实底配浅色字。
-5. **信号**：一屏只有当前项的下沿或左沿有 2px `signal`；控件内部没有 signal 填充。
-6. **键盘**：只用键盘可以走完「选工具 → 画 ROI → 改数值 → 换单位 → 撤销 → 导出」。
-7. **并排**：亮暗两版控件尺寸逐项一致，只有颜色不同。
+5. **信号**：一屏只有当前项的下沿或左沿有 2px `signal`；控件内部没有 signal 填充；**没有任何文字被 signal 染色**。
+6. **焦点**：焦点只出现在控件或当前单元格内；表格、列表都不出现整行外框；选中与焦点同时出现时，左沿与单元格细框互不覆盖。
+7. **键盘**：只用键盘可以走完「选工具 → 画 ROI → 改数值 → 换单位 → 撤销 → 导出」。
+8. **并排**：亮暗两版控件尺寸逐项一致，只有颜色不同。
 
 ## 13 边界
 
